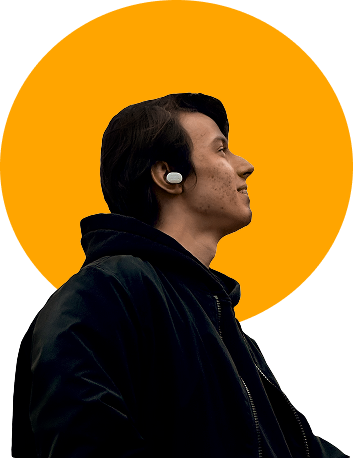
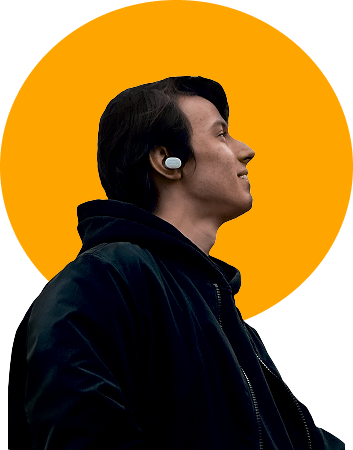
update photo

diff --git a/index.html b/index.html
@@ -120,7 +120,7 @@
 				</div>
 				<!-- </div> -->
 			</section>
-			<section class="section services" id="services">
+			<section class="section services container" id="services">
 				<div class="content">
 					<div class="title">
 						<span>My hard skills:</span>
